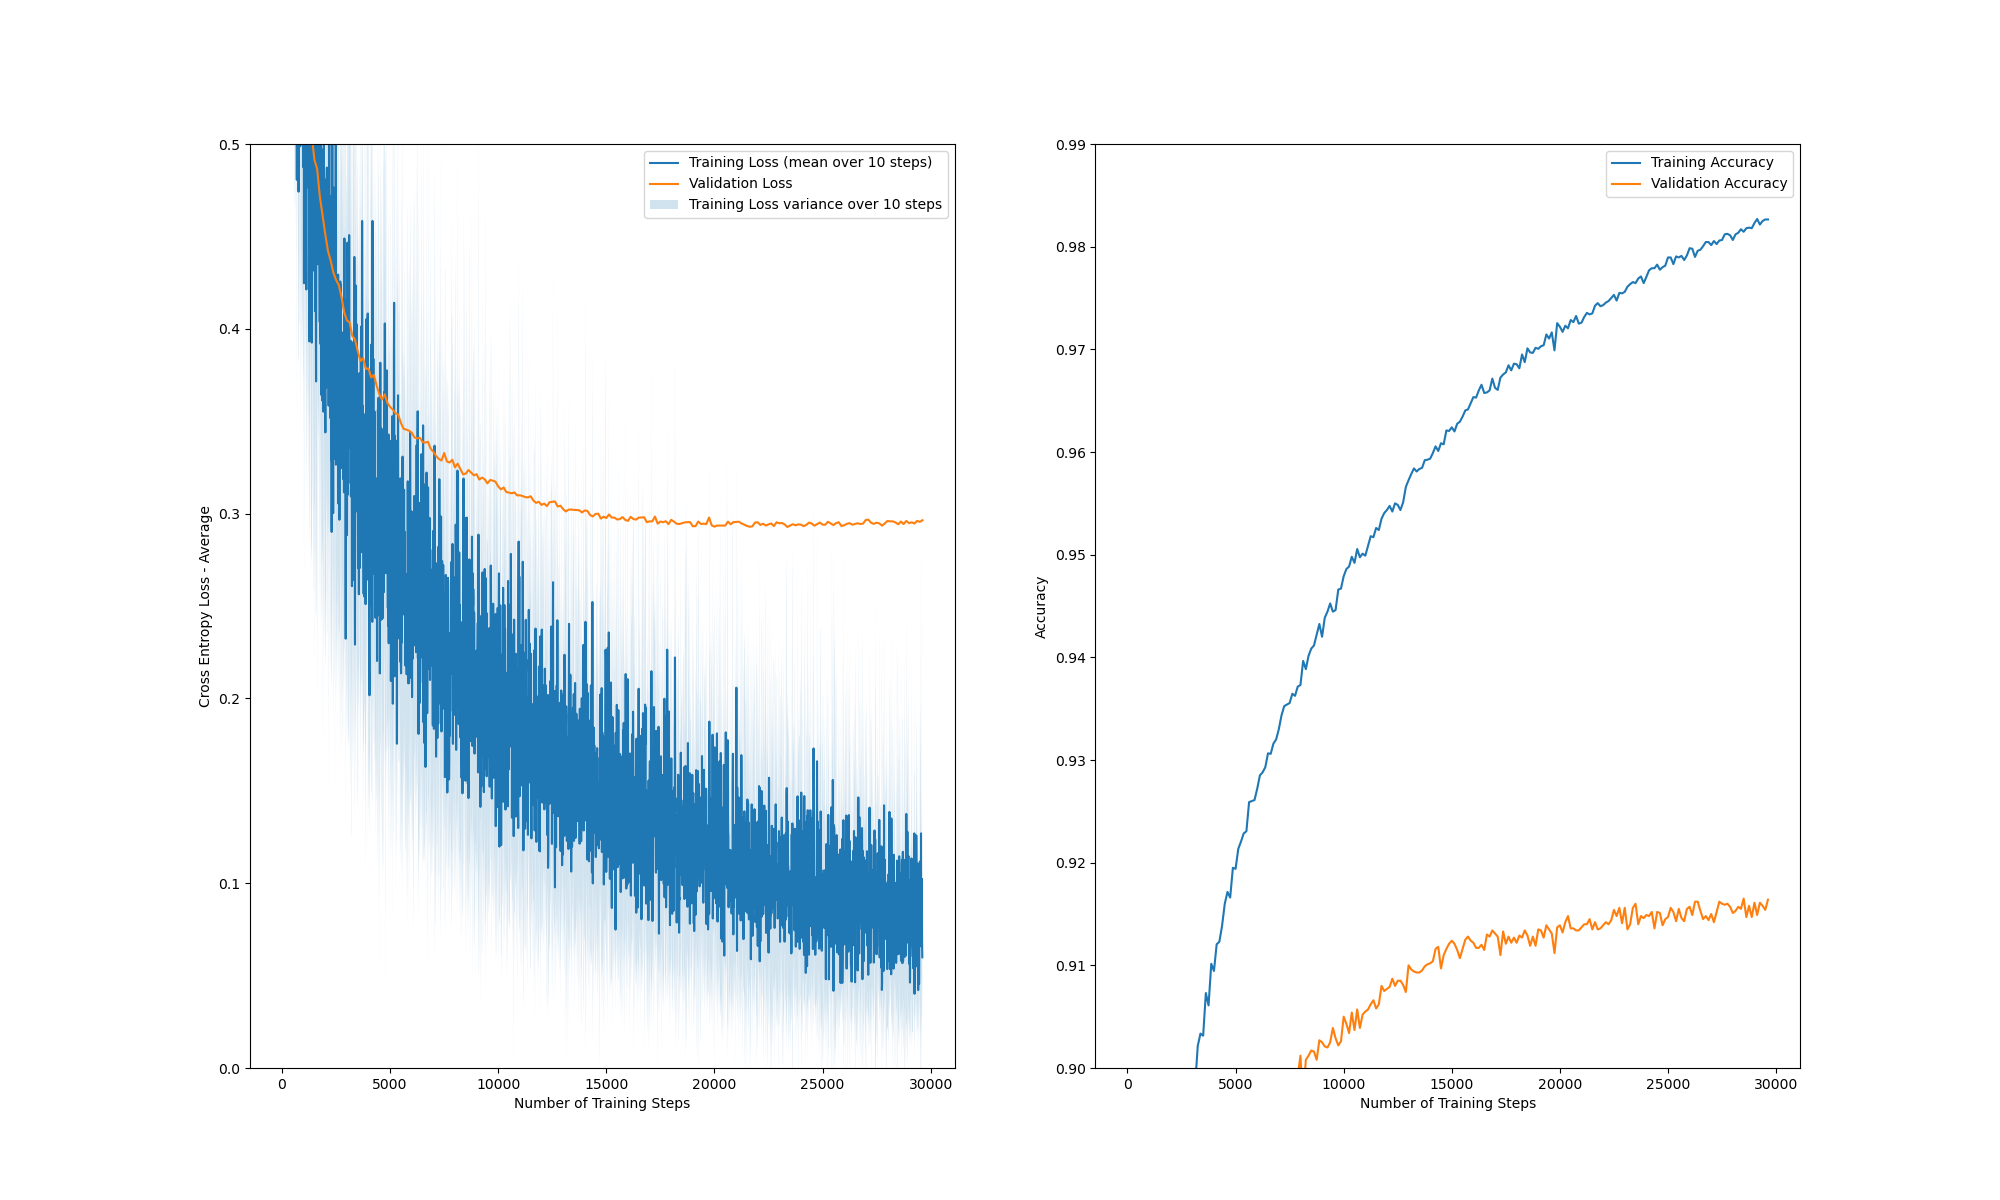
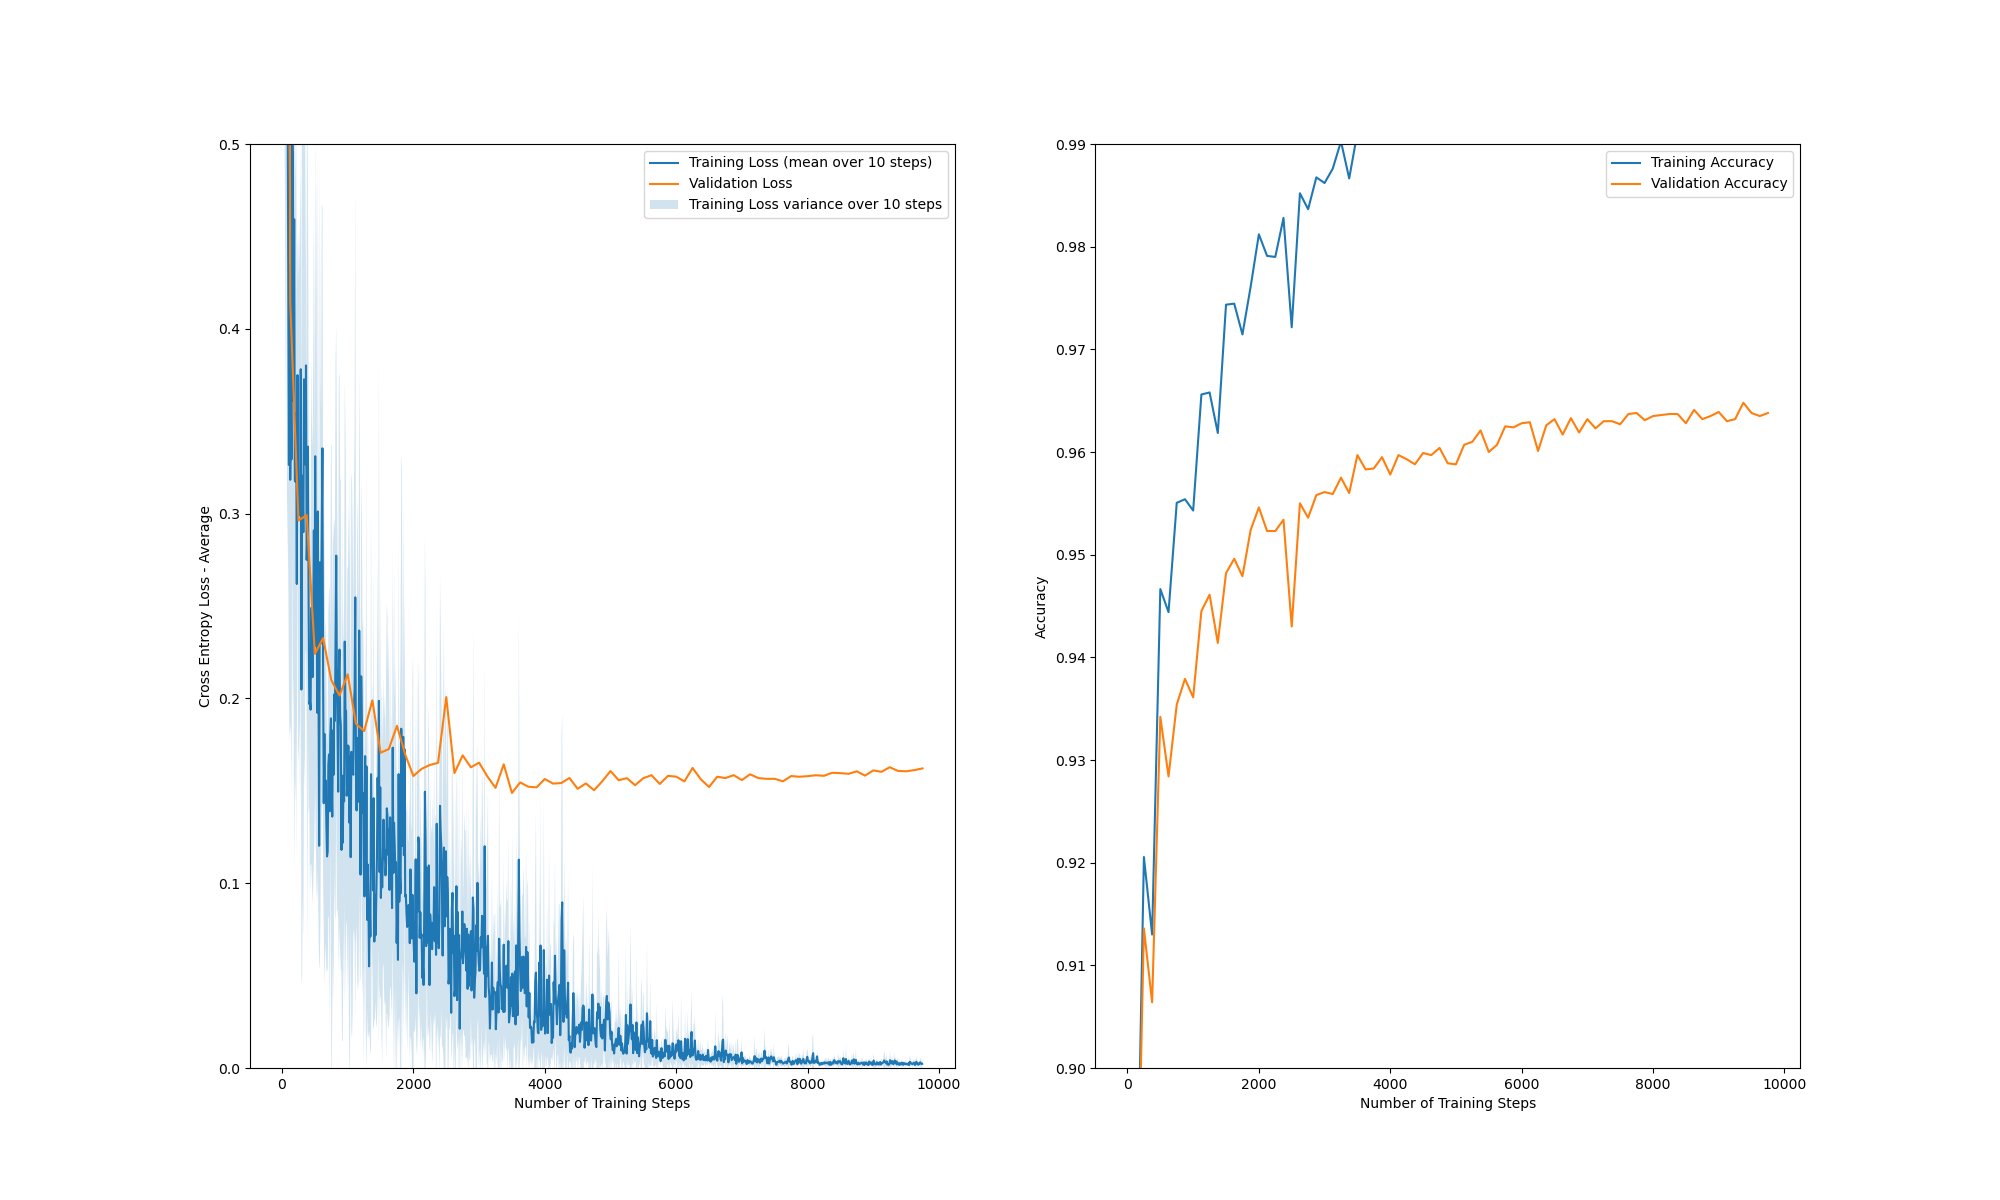
small change

diff --git a/assignment2/task2.py b/assignment2/task2.py
@@ -99,16 +99,16 @@ class SoftmaxTrainer(BaseTrainer):
 if __name__ == "__main__":
     # hyperparameters DO NOT CHANGE IF NOT SPECIFIED IN ASSIGNMENT TEXT
     num_epochs = 50
-    learning_rate = .1
+    learning_rate = .02
     batch_size = 32
     neurons_per_layer = [64,10]
     momentum_gamma = .9  # Task 3 hyperparameter
     shuffle_data = True
 
     # Settings for task 3. Keep all to false for task 2.
-    use_improved_sigmoid = False
-    use_improved_weight_init = False
-    use_momentum = False
+    use_improved_sigmoid = True
+    use_improved_weight_init = True
+    use_momentum = True
 
     # Load dataset
     X_train, Y_train, X_val, Y_val = utils.load_full_mnist()
